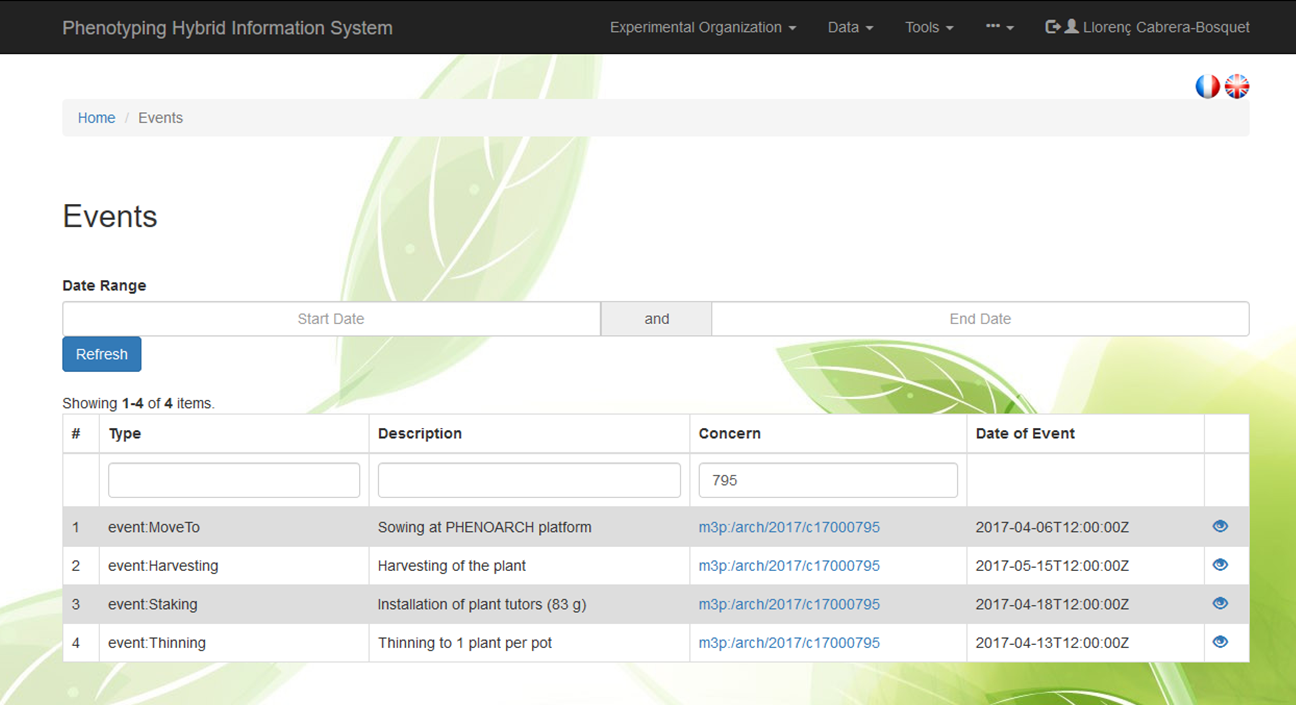
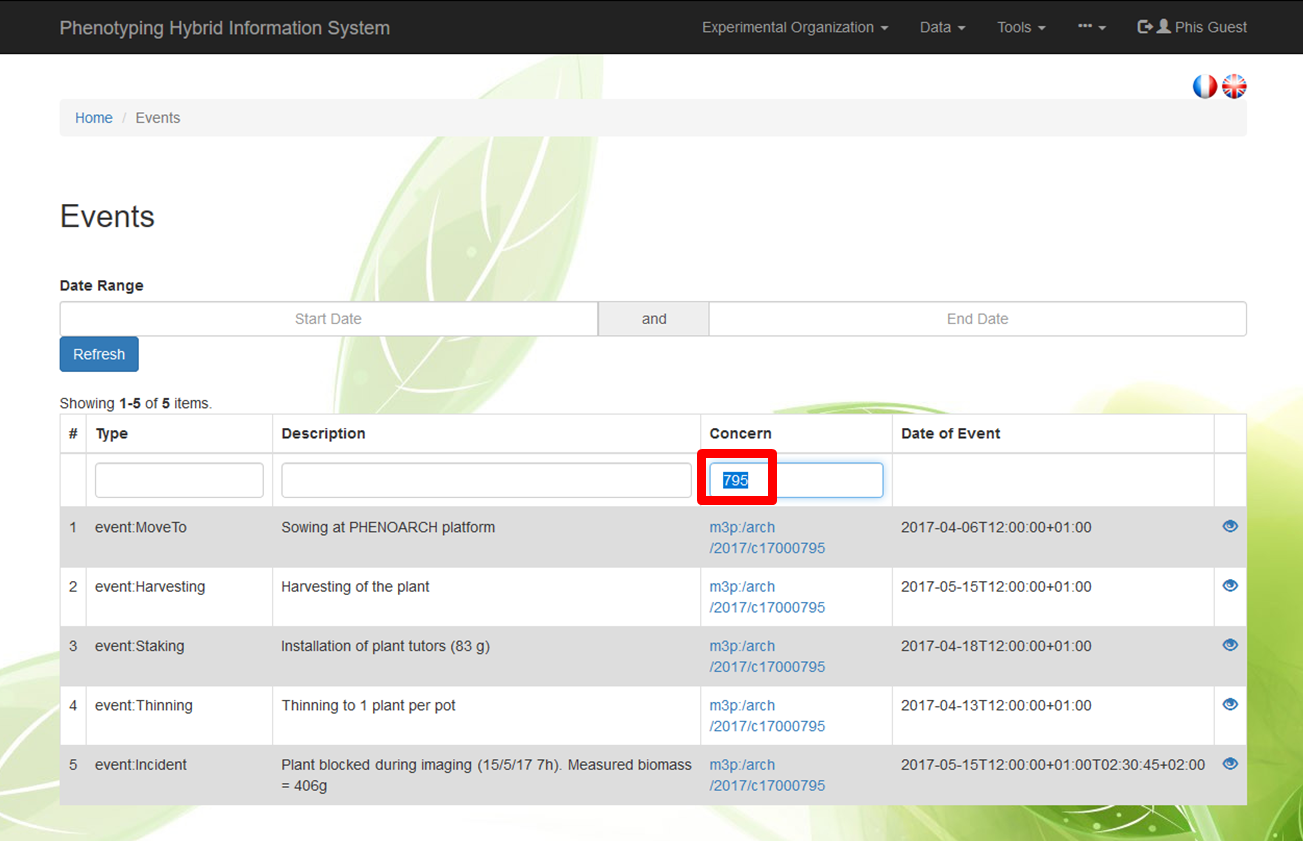
update

diff --git a/docs/emphasis_ontology.md b/docs/emphasis_ontology.md
@@ -38,7 +38,7 @@ methods, which can be defined automatically in information systems for all exper
 
 ### 1.5 Installation
 
-An `INSTALLATION` is the elementary level for data acquisition. It stands for other frequently used terms such as ‘platform’, ‘plateau’, ‘facility’ or others. Examples: Phenoarch, Growscreenrhizo or others belonging to the EMPHASIS or EPPN<sup>2020</sup> lists [(https://www.plantphenotyping.org/db_infrastructure#/)](https://www.plantphenotyping.org/db_infrastructure#/). 
+An `INSTALLATION` is the elementary level for data acquisition. It stands for other frequently used terms such as ‘platform’, ‘plateau’, ‘facility’ or others. Examples: Phenoarch, Growscreenrhizo or others belonging to the EMPHASIS or EPPN<sup>2020</sup> lists [(https://www.plantphenotyping.org/db_infrastructure#/)](https://www.plantphenotyping.org/db_infrastructure#/).
 
 A given *experiment* **(see § 1.3.1)** can involve one or several *installations* in controlled conditions (*plants* can move between *installations*) or in the field **(see § 2.3)**. For the organization of information systems and calculation of costs, it is convenient to consider that each activity and each location such as field or greenhouse can involve several *installations* which are frequently handled by different groups of people and involve different pieces of equipment. This allows identification of common operations (with common items in information systems and common procedures for evaluation of costs), for example in fields with high throughput phenotyping and in *networks of field experiments* with lean phenotyping. With this definition, an installation usually involves instances that produce and handle the data as a result of *experiments* and *projects* and *activities*:
 
@@ -58,9 +58,9 @@ By extension, a vector can also be a group of persons producing hand observation
 
 `SCALES` include *spatial* and *temporal* domains that are often interlinked. The `TEMPORAL SCALE` covers processes that range from fraction of second e.g. electron transport, day e.g. developmental processes and season e.g. growth dynamics and yield. The `SPATIAL SCALES` of plant organization analysed in EMPHASIS are `ORGAN` (any part of the plant that presents defined boundaries and is defined by a specific ontology), `PLANT` (the organism originating from a single seed, callus, rhizome or any other propagation mean) and `PLOT` (a community of plants located on a defined area of a field). The cellular scale is essentially carried out by other infrastructures. Field experiments usually refer to `MICRO PLOT`, i.e. a portion of the experimental field with a common genotype and set of cultivation techniques. These *scales* correspond to the `OBSERVATION UNITS` defined in MIAPPE, i.e. the level at which traits are measured, calculated and stored in the information system.
 
-The methods and techniques to capture `ENVIRONMENTAL CONDITIONS` are a key attributes of any *installation*. The latter are defined as a matrix of values of `ENVIRONMENTAL VARIABLES` (outputs of a *sensor* with appropriate units, e.g. temperature, °C) collected at given `TIME STEPS` (the interval between two measurements, e.g. 10 minutes) over a `TIMESCALE` (the time during which an experiment is carried out, e.g. 2 months). The elementary attributes of an *environmental variable* are the category of *sensor*, its make, age, and calibration. The position of sensors is another essential attribute (e.g. x-y-z position in a greenhouse, GPS coordinates in a field in which z stands for the altitude of atmospheric *sensors* and depth for soil*sensors*). `ENVIRONMENTAL METADATA` are the collection of attributes, timesteps and timescales used in a particular *experiment*. Those metadata will proposed for integration in a future version of MIAPPE. 
+The methods and techniques to capture `ENVIRONMENTAL CONDITIONS` are a key attributes of any *installation*. The latter are defined as a matrix of values of `ENVIRONMENTAL VARIABLES` (outputs of a *sensor* with appropriate units, e.g. temperature, °C) collected at given `TIME STEPS` (the interval between two measurements, e.g. 10 minutes) over a `TIMESCALE` (the time during which an experiment is carried out, e.g. 2 months). The elementary attributes of an *environmental variable* are the category of *sensor*, its make, age, and calibration. The position of sensors is another essential attribute (e.g. x-y-z position in a greenhouse, GPS coordinates in a field in which z stands for the altitude of atmospheric *sensors* and depth for soil*sensors*). `ENVIRONMENTAL METADATA` are the collection of attributes, timesteps and timescales used in a particular *experiment*. Those metadata will proposed for integration in a future version of MIAPPE.
 
-*Environmental conditions* comprise raw data that depict the time-course of every variable, attached to each *sensor* (e.g. light or temperature every hour for a given sensor). They serve to calculate elaborate variables, for example the maximum /minimum /mean /median of all *sensors* outputs measuring a given variable, the number of hours with a temperature higher than a threshold or the light intensity per unit thermal time. Typically, raw variables are stored in information systems whereas elaborate variables are reported in the supplementary information of scientific papers. Indeed, the number of elaborate variable can be nearly infinite, depending on researcher’s interest so they cannot be stored in information systems. However, if an *installation* or a *project* use elaborate variables routinely, their definition, unit and mode of calculations (but not values) are traced in the corresponding information systems. 
+*Environmental conditions* comprise raw data that depict the time-course of every variable, attached to each *sensor* (e.g. light or temperature every hour for a given sensor). They serve to calculate elaborate variables, for example the maximum /minimum /mean /median of all *sensors* outputs measuring a given variable, the number of hours with a temperature higher than a threshold or the light intensity per unit thermal time. Typically, raw variables are stored in information systems whereas elaborate variables are reported in the supplementary information of scientific papers. Indeed, the number of elaborate variable can be nearly infinite, depending on researcher’s interest so they cannot be stored in information systems. However, if an *installation* or a *project* use elaborate variables routinely, their definition, unit and mode of calculations (but not values) are traced in the corresponding information systems.
 
 Other attributes of a given *installation* are its `CAPACITY` (the number of plants or micro-plots that can be handled simultaneously in one experiment) and `THROUGHPUT` (the number of plants or microplots handled per unit time). The *annual throughput* indicates the amount of plants handled in a given *installation* in one year. Throughputs over shorter periods (e.g. day), together with the capacity of the installation, are the main determinants of the frequency of phenotypic measurements (reciprocal of *timestep* for phenotypic measurements).
 
@@ -92,7 +92,7 @@ The *basic field installation* is a field site carrying out *lean phenotyping*, 
 
 #### 2.3.2 Other specific field installations define the attributes of intense fields
 
-In the view presented here, a given field experiment involves different *installations* with many possible combinations of them (e.g. basic field *installation* + UAV in one field, and basic field installation + FACE + Phenomobile in another field). Identifying *installations* in this way greatly facilitates the organization of information systems and data analysis. 
+In the view presented here, a given field experiment involves different *installations* with many possible combinations of them (e.g. basic field *installation* + UAV in one field, and basic field installation + FACE + Phenomobile in another field). Identifying *installations* in this way greatly facilitates the organization of information systems and data analysis.
 
 *Installations allowing environmental manipulations* contain equipment that allow comparison of plant behavior in either normal or manipulated conditions in the same field. This can involve rainout shelters which protect *plots* during rain episodes, FACE that enrich the air with CO<sub>2</sub> or other gases, local heaters for increasing canopy temperature or equipment for (fert-)irrigation with high precision. Many of these *installations* can be moved periodically from one field to another, so they need to be considered as *installations* per se, regardless of the field where they are installed. They usually involve specific personnel able to handle this equipment. Datasets associated with these *installations* are specific environmental data (e.g. high definition of maps of temperature or CO<sub>2</sub> in the *installation* every day or hour). Metadata involve the characteristics of equipment and events (e.g. dates and volume of irrigation or timing of rainout shelter opening/closing).
 

diff --git a/docs/ontologies.md b/docs/ontologies.md
@@ -1,12 +1,12 @@
 # Ontologies
 
-PHIS relies on two application ontologies compliant with the standards of Ontology Web Language [(OWL)](https://www.w3.org/OWL/). The ontologies are available at the Agroportal (xxxxxxxxx).
+PHIS relies on two application ontologies compliant with the standards of the [**Ontology Web Language**](https://www.w3.org/OWL/). The ontologies are available at the [**Agroportal**](http://agroportal.lirmm.fr/).
 
 ## OEPO
 
-The Ontology for Experimental Phenotypic Objects (OEPO), allows assigning types (e.g. Experimental organization and context, Environment type, Germplasm, Physical Object) to objects involved in phenotyping experiments and defining specialization hierarchy between them according to the specificities of the installations and experiments.
+The **Ontology for Experimental Phenotypic Objects (OEPO)**, allows assigning types (e.g. Experimental organization and context, Environment type, Germplasm, Physical Object) to objects involved in phenotyping experiments and defining specialization hierarchy between them according to the specificities of the installations and experiments.
 
-The OPEPO ontology contains three main groups ob objects, namely *Experimental Context*, *Scientific Objects* and *Genetic Properties*. 
+The OEPO ontology contains three main groups ob objects, namely *Experimental Context*, *Scientific Objects* and *Genetic Properties*. 
 
 The *Experimental context* refers to the set of environmental conditions, infrastructure and supporting equipment or resources necessary to conduct a given experiment.
 
@@ -19,7 +19,7 @@ By extension, a vector can also be a group of persons producing hand observation
 
 ![oepo_vector](img/oepo_vector.png)
 
-- *Actuators* are *devices* 
+- *Actuators* are *devices*
 
 ![oepo_actuator](img/oepo_actuator.png)
 
@@ -27,11 +27,11 @@ By extension, a vector can also be a group of persons producing hand observation
 
 ![oepo_sensor](img/oepo_sensor.png)
 
-- *Scientific objects* correspond to the different plant organization levels studied such as whole plants (the organism originating from a single seed, callus, rhizome or any other propagation mean), or plots (a community of plants located on a defined area of a field), but also other concepts defined at lower spatial sclae (e.g. leaf, silk, ear Inflorescence). Terms present in this ontology map onto existing ontologies providing relevant concept hierarchies related to the anatomy, structure and phenotype of plants described in the Planteome project<sup>1</sup> [http://planteome.org/](http://planteome.org/) such as the Crop Ontology<sup>2</sup> [(http://cropontology.org/)](http://cropontology.org/), the Plant Ontology<sup>3,4,5</sup> [(http://plantontology.org/)](http://plantontology.org/), the PATO [(http://www.obofoundry.org/ontology/pato.html)](http://www.obofoundry.org/ontology/pato.html), and other ontological resources such as the AGROVOC<sup>6</sup>.
+- *Scientific objects* correspond to the different plant organization levels studied such as whole plants (the organism originating from a single seed, callus, rhizome or any other propagation mean), or plots (a community of plants located on a defined area of a field), but also other concepts defined at lower spatial sclae (e.g. leaf, silk, ear Inflorescence). Terms present in this ontology map onto existing ontologies providing relevant concept hierarchies related to the anatomy, structure and phenotype of plants described in the [**Planteome project**](http://planteome.org/)<sup>1</sup> such as the [**Crop Ontology**](http://cropontology.org/)<sup>2</sup>, the [**Plant Ontology**](http://plantontology.org/)<sup>3,4,5</sup>, the [**PATO**](http://www.obofoundry.org/ontology/pato.html), and other ontological resources such as the [**AGROVOC**](http://artemide.art.uniroma2.it:8081/agrovoc/agrovoc/en/)<sup>6</sup>. 
 
 ![oepo_scobject](img/oepo_scientificobject.png)
 
-- Genetic material. The FAO/Bioversity Multi Crop Passport Descriptors is also used for germplasm identification.
+- *Genetic material*. The [**FAO/Bioversity Multi Crop Passport Descriptors**](https://www.bioversityinternational.org/e-library/publications/detail/faobioversity-multi-crop-passport-descriptors-v21-mcpd-v21/)<sup>7,8</sup> is also used for germplasm identification.
 
 ![oepo_germplasm](img/oepo_germplasm.png)
 
@@ -39,20 +39,23 @@ By extension, a vector can also be a group of persons producing hand observation
 
 ## OEEv
 
-The Ontology of Experimental Events (OEEv), characterises events that occur during an experiment, e.g. moving of plants, dates of sowing, application of a given treatment, harvesting, measurements or sampling for -omic measurements, or any category of technical problem.
-
+The **Ontology of Experimental Events (OEEv)**, characterises events that occur during an experiment, e.g. moving of plants, dates of sowing, application of a given treatment, harvesting, measurements or sampling for -omic measurements, or any category of technical problem.
 
 ### References
 
-<sup>1</sup>Cooper L, Meier A, Laporte MA, Elser JL, Mungall C, Sinn BT, Cavaliere D, Carbon S, Dunn NA, Smith B, et al. 2018. The Planteome database: an integrated resource for reference ontologies, plant genomics and phenomics. Nucleic Acids Research 46: D1168-D1180.
+<sup>1</sup>Cooper L, Meier A, Laporte MA, Elser JL, Mungall C, Sinn BT, Cavaliere D, Carbon S, Dunn NA, Smith B, et al. 2018. The Planteome database: an integrated resource for reference ontologies, plant genomics and phenomics. *Nucleic Acids Research* 46: D1168-D1180.
 
-<sup>2</sup>Shrestha R. 2012. Bridging the phenotypic and genetic data useful for integrated breeding through a data annotation using the CropOntology developed by the crop communities of practice. Frontiers in Physiology 3.
+<sup>2</sup>Shrestha R. 2012. Bridging the phenotypic and genetic data useful for integrated breeding through a data annotation using the CropOntology developed by the crop communities of practice. *Frontiers in Physiology* 3.
 
-<sup>3</sup>Cooper L, Walls RL, Elser J, Gandolfo MA, Stevenson DW, Smith B, Preece J, Athreya B, Mungall CJ, Rensing S. 2013. The plant ontology as a tool for comparative plant anatomy and genomic analyses. Plant and Cell Physiology 54: e1-e1.
+<sup>3</sup>Cooper L, Walls RL, Elser J, Gandolfo MA, Stevenson DW, Smith B, Preece J, Athreya B, Mungall CJ, Rensing S. 2013. The plant ontology as a tool for comparative plant anatomy and genomic analyses. *Plant and Cell Physiology* 54: e1-e1.
 
-<sup>4</sup>Ilic K, Kellogg EA, Jaiswal P, Zapata F, Stevens PF, Vincent LP, Avraham S, Reiser L, Pujar A, Sachs MM, et al. 2007. The plant structure ontology, a unified vocabulary of anatomy and morphology of a flowering plant. Plant Physiology 143: 587-599.
+<sup>4</sup>Ilic K, Kellogg EA, Jaiswal P, Zapata F, Stevens PF, Vincent LP, Avraham S, Reiser L, Pujar A, Sachs MM, et al. 2007. The plant structure ontology, a unified vocabulary of anatomy and morphology of a flowering plant. *Plant Physiology* 143: 587-599.
 
 <sup>5</sup>Walls RL, Athreya B, Cooper L, Elser J, Gandolfo MA, Jaiswal P, Mungall CJ, Preece J, Rensing S, Smith B. 2012. Ontologies as 
-integrative tools for plant science. American Journal of Botany 99: 1263-1275.
+integrative tools for plant science. *American Journal of Botany* 99: 1263-1275.
 
-<sup>6</sup>Caracciolo C, Stellato A, Morshed A, Johannsen G, Rajbhandari S, Jaques Y, Keizer J. 2013. The AGROVOC linked dataset. Semantic Web 4: 341-348.
+<sup>6</sup>Caracciolo C, Stellato A, Morshed A, Johannsen G, Rajbhandari S, Jaques Y, Keizer J. 2013. The AGROVOC linked dataset. *Semantic Web* 4: 341-348.
+
+<sup>7</sup>Alercia A, Diulgheroff S, Mackay M 2015. FAO/Bioversity Multi-Crop Passport Descriptors V. 2.1 [MCPD V. 2.1]-December 2015: Bioversity International.
+
+<sup>8</sup>Yeumo ED, Alaux M, Arnaud E, Aubin S, Baumann U, Buche P, Cooper L, Ćwiek-Kupczyńska H, Davey RP, Fulss RA. 2017. Developing data interoperability using standards: A wheat community use case. *F1000Research* 6.

diff --git a/docs/datamenu.md b/docs/datamenu.md
@@ -4,7 +4,7 @@ The Data menu contains tools for advanced data querying, visualization features 
 
 ## Images
 
-Raw images (e.g. RGB, hemispherical,...), thumbnails and analysed images (e.g. segmented images) stored on the distributed storage system iRODS [(https://irods.org/)](https://irods.org/), can be accessed using a filtering form based on `URIs`, `Experiments`, `Genotypes` and `Dates`
+Raw images (e.g. RGB, hemispherical,...), thumbnails and analysed images (e.g. segmented images) stored on the distributed storage system [**iRODS**](https://irods.org/), can be accessed using a filtering form based on `URIs`, `Experiments`, `Genotypes` and `Dates`
 
 ![Example images](img/example_images.png)
 
@@ -30,18 +30,29 @@ The graphic visualisation menu contains features for displaying images, dynamic 
 
 Graphs can be zoomed into a particular time window, and clicking on a data point automatically displays the images associated to this point together with the associated annotations. Raw images, segmented images and metadata can be displayed in both field and greenhouse experiments. The interaction with the knowledge layer allows projecting variables using GPS coordinates associated to plants or plots in field experiments and linking data with environmental sensor outputs.
 
+![graphic_visual](img/graphic_visual.png)
+
 Graphs can be exported into different formats (i.e. PDF, JPG, PNG, SVG).
 
 ## Data Analysis
 
-PHIS includes extensible scientific computing modules based on R packages for calculating elaborated variables and generating experimental summaries and reports. Automatic reporting is based on data query through the interface and R integration in text processing (R Markdown). Different R (R Core Team, 2015) packages (‘dplyr’, ‘mongolite’, ‘RPostgreSQL’, ‘jsonlite’, ‘httr’, ‘urltools’) are also used to  link databases and the Web User Interface. Basic reports include daily, weekly or final overviews of experiments, with standard statistics and graphic visualization of averaged queried traits. Extended reports may include specific calculation of traits and environmental conditions associated to a given plant or genotype. In particular, new variables can be calculated for a given experiment based on the joint use of phenotypic and environmental data together with associated metadata to plants and traits (e.g. events, methods).
+PHIS includes extensible scientific computing modules based on R packages for calculating elaborated variables and generating experimental summaries and reports. Automatic reporting is based on data query through the interface and R integration in text processing ([**R Markdown**](https://rmarkdown.rstudio.com/)). Different R ([**R Core Team, 2015**](https://www.r-project.org/)) packages (‘*dplyr*’, ‘*mongolite*’, ‘*RPostgreSQL*’, ‘*jsonlite*’, ‘*httr*’, ‘*urltools*’) are also used to  link databases and the Web User Interface. Basic reports include daily, weekly or final overviews of experiments, with standard statistics and graphic visualization of averaged queried traits. Extended reports may include specific calculation of traits and environmental conditions associated to a given plant or genotype. In particular, new variables can be calculated for a given experiment based on the joint use of phenotypic and environmental data together with associated metadata to plants and traits (e.g. events, methods).
 
 ![Data analysis menu](img/data_analysis.png)
 
-For instance, a `Thermal Time Calculation Report` allows calculating the progression of thermal time for each `experiment`, taking into account diffrent parameters like the `species`, the `method` used (e.g. baseline temperature or Parent *et al*. method) the `event` to start computation (e.g. sowing, emergence,thinning) or a given calendar date, and `temperature data` (air or leaf temperatures)
+For instance, a `Thermal Time Calculation Report` allows calculating the progression of thermal time for each `experiment`, taking into account diffrent parameters like the `species`, the `method` used (e.g. baseline temperature or Parent *et al*. method<sup>1</sup>) the `event` to start computation (e.g. sowing, emergence,thinning) or a given calendar date, and `temperature data` (air or leaf temperatures)
 
 ![Data analysis menu](img/thermal_time_report.png)
 
 ## Workflows
 
-Computational analysis and workflows can be run through the scientific platform Galaxy [(https://galaxyproject.org/)](https://galaxyproject.org/)
+Workflow feature icluded in PHIS enables computational analysis and workflows through the scientific platform [**Galaxy**](https://galaxyproject.org/).
+
+As an exemple  the simple Workflow `TEST Echo workflow` is shown, containing different attributes and input parameters:
+
+![workflow1](img/workflow1.png)
+
+![workflow2](img/workflow2.png)
+
+<br>
+<sup>1</sup>Parent *et al*. 2010. Modelling temperature-compensated physiological rates, based on the co-ordination of responses to temperature of developmental processes. *Journal of Experimental Botany* 61: 2057-2069

diff --git a/docs/events.md b/docs/events.md
@@ -1,19 +1,23 @@
 # Events
 
-The Events menu allows searching and visualising events and annotations performed in the different objects.
+The Events menu allows searching and visualising events and annotations performed in the different objects declared in the information system.
 
-Different filters can be applied. For instance, searching for the plant 795 having the URI `m3p:/arch/2017/c17000795`, results in four different events, each one characterised by a `Type`, `Description`, `Concern` and a `Date of event`.
+Different filters can be applied based on `Dates`, `Type`, `Description` of events or the `Concern` object. As an example, searching for plant 795 (having the URI `m3p:/arch/2017/c17000795`) in the Concern box, results in five different events describing *sowing*, *thinning*, *installation of plant tutors*, an *incident* ocurred during imaging and *harvesting*:
 
 ![Events](img/events2.png)
 
-Detailed information of each event can be displayed including RDF triples. For instance the event describing the `harvesting` of plant 795 is formulated as:
+Detailed information of each event can be displayed including [**RDF triples**](https://www.w3.org/RDF/). For instance the event `http://www.phenome-fppn.fr/m3p/arch/2018/evc18_6851fb51-efa6-44ff-bc4d-bf1cfa98f576` describing the `Harvesting` of plant 795 is formulated as:
 
 ![Detailed event information](img/events3.png)
 
-Thus, the event `http://www.phenome-fppn.fr/m3p/arch/2018/evc18_2f05ceea-ab10-4db8-afd0-dbb72f12da17` concerns the plant 795 (**event:concern**), is of type harvesting (**rdf:type**) and it happened at a give time (**time:hasTime**). Details of the time in which the event happened (**time:inXSDDateTimeStamp**) and the time that event was annotated (**dcterms:created**) are described below:
+ where is of type harvesting (**rdf:type**), concerns plant 795 (**event:concern**), and has and associated time stamp (**time:hasTime**). Details of the timings of the event (**time:inXSDDateTimeStamp**) and its annotation are described as:
 
-![event time](img/events4.png)
+ ![event5](img/events5.png)
 
-Further annotations can be added by clicking on the Annotation button <span class="btn btn-warning">Add Annotation</span> 
+The harvesting event `http://www.phenome-fppn.fr/m3p/arch/2018/evc18_6851fb51-efa6-44ff-bc4d-bf1cfa98f576` concerning the plant 795 is associated to the annotation `http://www.phenome-fppn.fr/m3p/arch/2018/oac18_eb34a5c1fb62027a5600680448f12e70` via **oa:hasTarget**. Details of the annotation, such as the type **oa:Annotation**, the **oa:bodyValue** '*Harvesting of the plant*' and the time that event was annotated (**dcterms:created**) and the person who did the annotation (**dctersms:creator**) are described below:
 
-Annotations are mainly guided by the OEEv ontology and the Web Annotation Data Model [(https://www.w3.org/TR/annotation-model/)](https://www.w3.org/TR/annotation-model/) that allows annotating any object declared in the system and assigning motivation and purpose attributes to annotations (e.g. oa:describing, oa:identifying, oa:linking, oa: replying, etc.)
+![events4](img/events4.png)
+
+Further annotations can be added by clicking on the Annotation button <span class="btn btn-warning">Add Annotation</span>
+
+Annotations are mainly guided by the **OEEv ontology** and the [**Web Annotation Data Model**](https://www.w3.org/TR/annotation-model/) that allows annotating any object declared in the system and assigning motivation and purpose attributes to annotations (e.g. oa:describing, oa:identifying, oa:linking, oa: replying, etc.). [**Dublin Core**](http://dublincore.org/) properties such as **dcterms:created** or **dcterms:creator** are also used.

diff --git a/docs/tools.md b/docs/tools.md
@@ -14,9 +14,7 @@ For some installations having CCTVs or webcams, access is provided.
 
 ## Quick Response Code Generator
 
-The tools menu contains a Quick response (QR) code generator. <button type="button" class="btn btn-default btn-sm">
-          <span class="glyphicon glyphicon-qrcode"></span> Qrcode
-        </button>
+The tools menu contains a Quick response (QR) code generator. <button type="button" class="btn btn-default btn-sm"><span class="glyphicon glyphicon-qrcode"></span> Qrcode </button>
 
 First, an experiment has to be chosen, and the list of plants or plots can be displayed.
 

diff --git a/docs/object-tracking-example.md b/docs/object-tracking-example.md
@@ -24,7 +24,6 @@ Searching filters allow selecting for scientfic objects such as plants, plots or
 
 For instance, the search of *arch* in the `Uri` box and *241* in the `Alias` box results in three different outputs:
 
-
 | URI                       | Alias                                                 | Genotype      | Type             |
 |---------------------------|-------------------------------------------------------|---------------|------------------|
 | m3p:/arch/2017/c17000241  | 0241/DZ_PG_35/ZM4358/WW/Rep_TS_1/05_01/ARCH2017-03-30 | m3p:/g/iPG164 | vocabulary:Plant |
